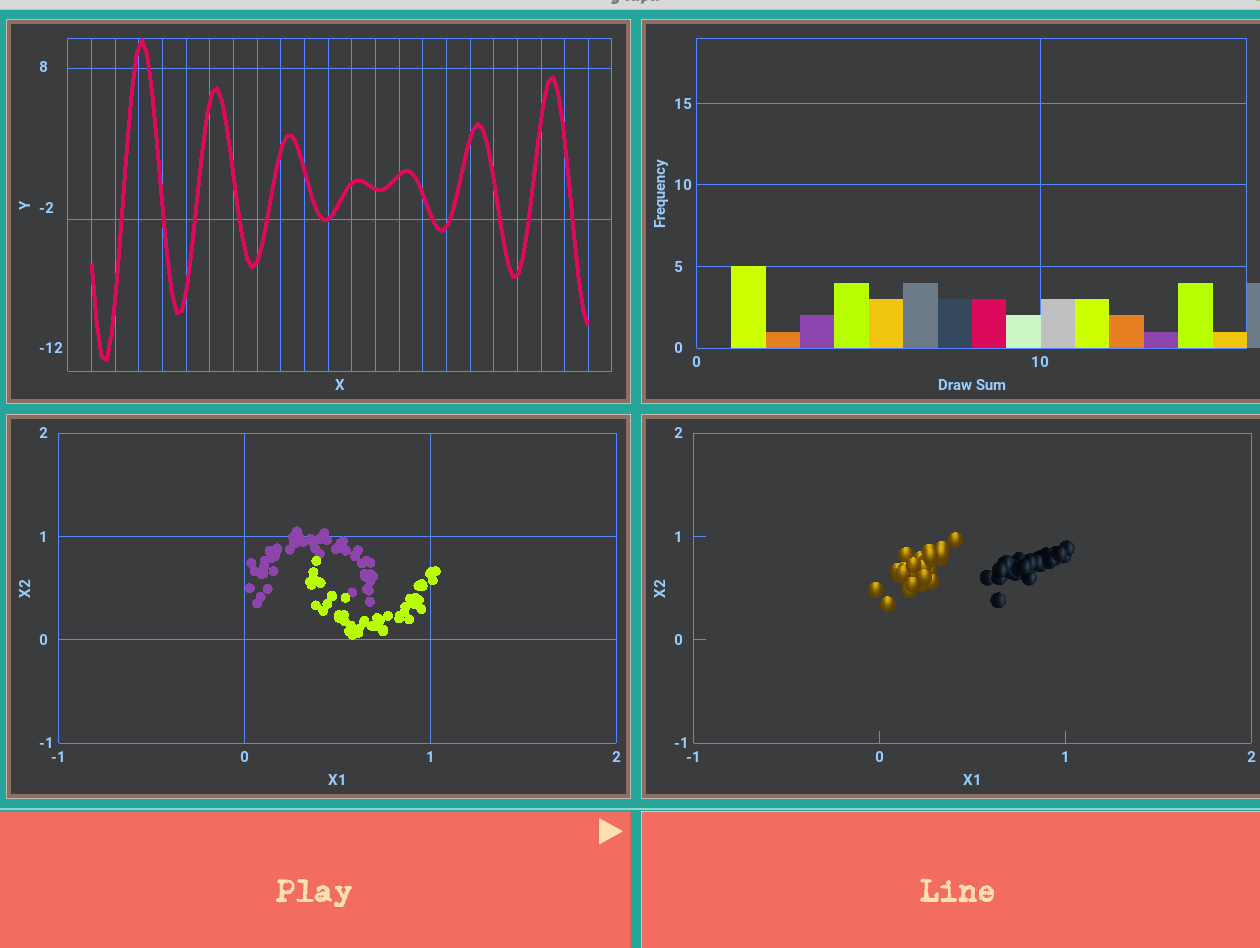
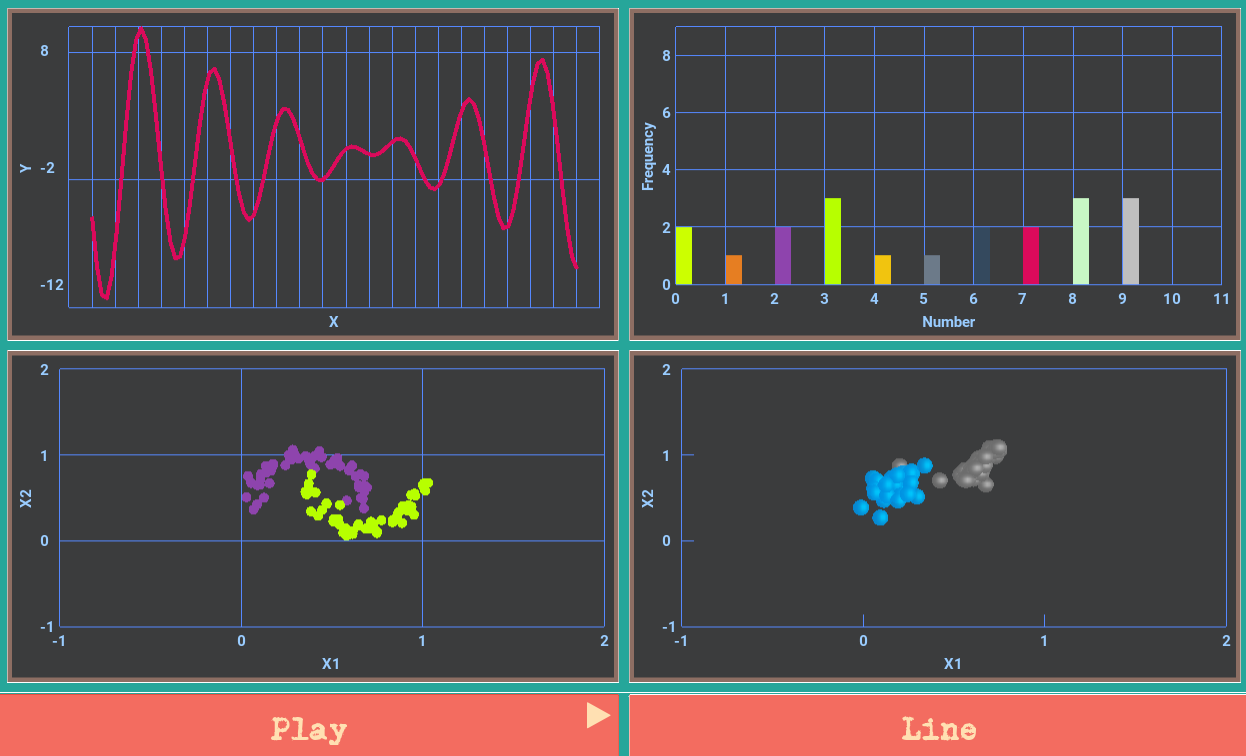
fix hist

diff --git a/graph_plots/MGraph/scatter3DGraph.py b/graph_plots/MGraph/scatter3DGraph.py
@@ -20,8 +20,13 @@ class Scatter3DGraph(FBoxLayout):
 
         self.orientation = "vertical"
 
-        self._colors = itertools.cycle([rgb('34495e'), rgb('f1c40f'), rgb(
-            '6C7A89'), rgb('BFBFBF'), rgb('00CCFF'), rgb('e67e22')])
+        self._colors = itertools.cycle([rgb('BFBFBF'), rgb('00CCFF'),
+                                        rgb('e67e22'), rgb('8e44ad'), rgb(
+                                            'b7ff00'), rgb('DB0A5B'),
+                                        rgb('C8F7C5'), rgb(
+                                            '34495e'), rgb('f1c40f'),
+                                        rgb('6C7A89')
+                                        ])
 
         self._graph_theme = {
             'label_options': {
